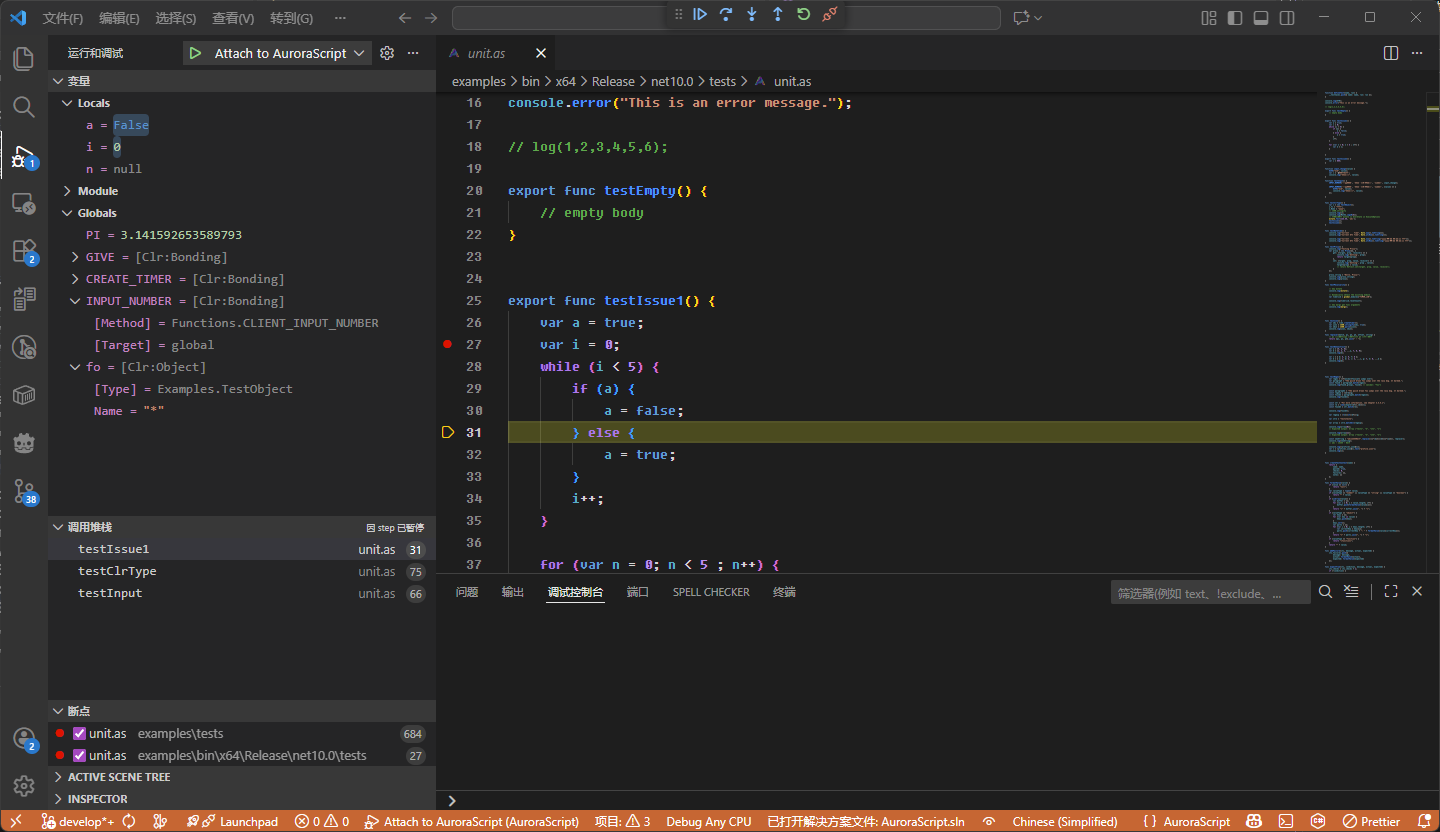
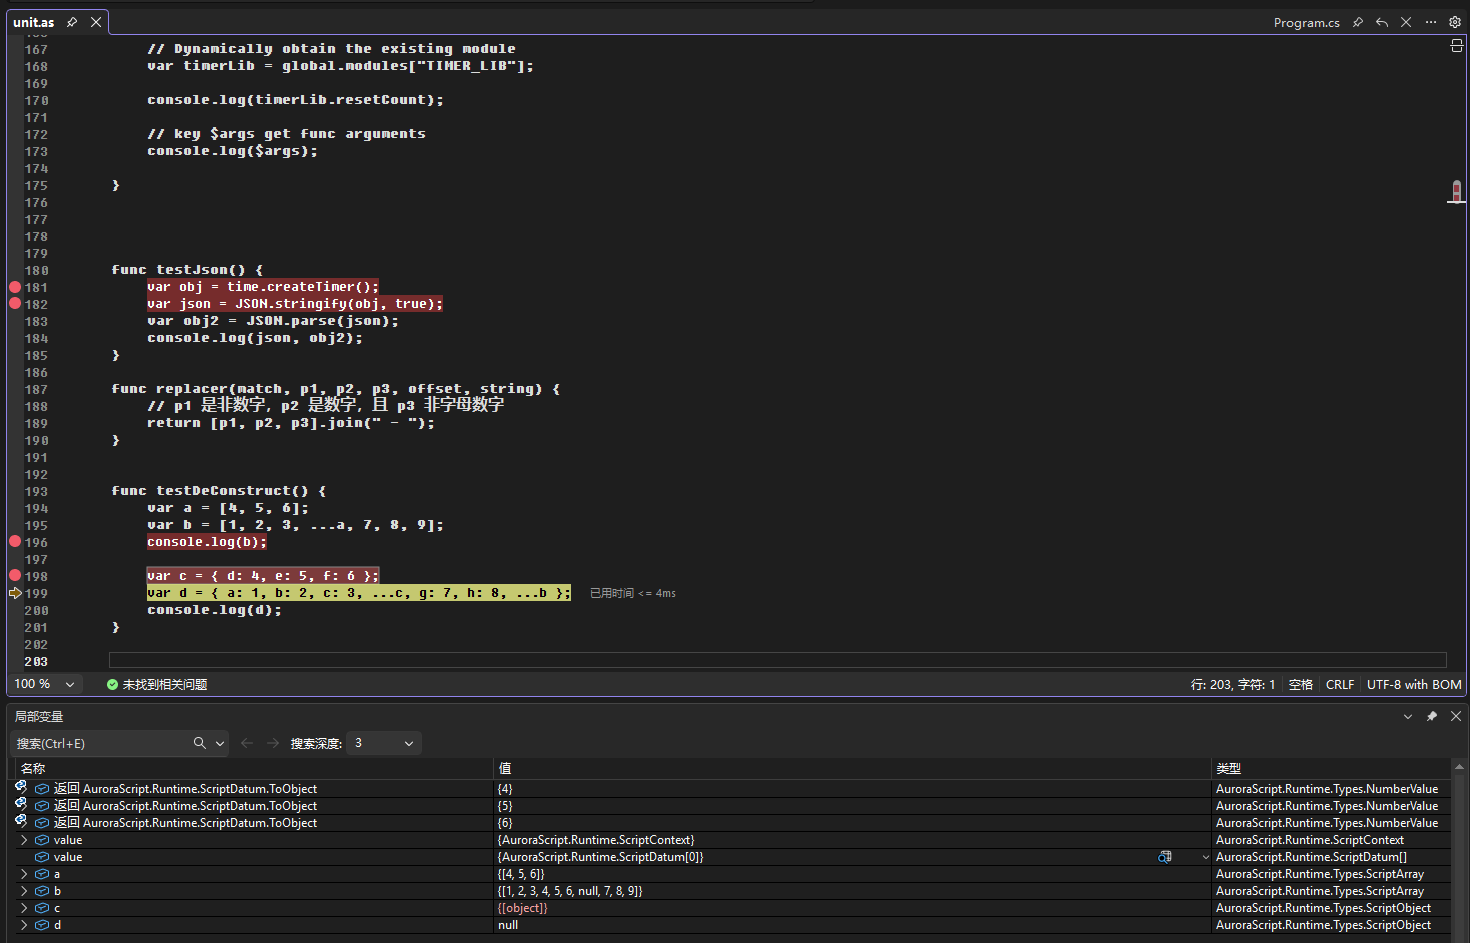
update readme

diff --git a/README.md b/README.md
@@ -12,34 +12,39 @@
 [![Build Status](https://img.shields.io/badge/build-passing-brightgreen.svg)](https://github.com/l2060/AuroraScript)
 [![Version](https://img.shields.io/badge/version-1.0.0-orange.svg)](package.json)
 
-AuroraScript is a lightweight, weak-typed script execution engine built on .NET. It compiles scripts into bytecode and executes them on a custom Virtual Machine (VM), designed to be fast, embeddable, and easy to use.
+AuroraScript is a lightweight, weak-typed script execution engine built on .NET. It compiles scripts directly into CIL (Common Intermediate Language) and executes them using the .NET JIT compiler, designed to be extremely fast, embeddable, and high-performance.
 
-While inspired by JavaScript syntax and mechanisms, AuroraScript is a distinct language with its own optimizations and features, and does not adhere to ECMA specifications. It supports native .NET integration and debugging.
+While inspired by JavaScript syntax and mechanisms, AuroraScript is a distinct language with its own optimizations and features, and does not adhere to ECMA specifications. It leverages native .NET infrastructure for execution, interop, and debugging.
 
 > [!NOTE]
 > 🚧 **Work in Progress**: The project is still in development. Performance and API stability are improving. We welcome **PRs** and **Issues** to help make AuroraScript better!
 
 ## ✨ Features
 
-- **Lightweight & Fast**: No third-party dependencies. Bytecode compilation and optimized VM execution.
+- **High Performance**: No third-party dependencies. Compiles to native CIL/MSIL, leveraging the .NET JIT compiler for execution.
 - **Weak Typed**: Flexible variable typing similar to JavaScript.
 - **Native Interop**: Seamlessly register and use .NET (CLR) types and functions within scripts.
-- **Debugging Support**: Full VS Code debugger support (Breakpoints, stepping, variable inspection, call stack).
+- **Debugging Support**: Full Visual Studio debugger support. (VS Code extension currently provides syntax highlighting only).
 - **Module System**:
   - `import xxx from 'xxx'`: Import module exports.
   - `include 'xxx.as'`: Embed script files directly.
   - `@module("NAME")`: Define module name.
 - **Advanced Control Flow**:
-  - `yield`: Interrupt execution.
   - `Interruption & Continue`: Pause and resume script execution from external host.
   - `debugger`: Programmatic breakpoint.
   - `where` / `for` loop enhancements.
+- **Compilation Modes**:
+  - `Persistence`: Compiles to persistent assemblies (DLL) with PDB symbols. Supports source-level debugging and programmatic breakpoints. Fully inspectable and dumpable.
+  - `OnlyRun`: Transient in-memory compilation. No managed debug mapping. Transparent to external profilers/dumpers; code resides in readable memory segments.
+  - `Dynamic`: Emits CIL via `DynamicMethod`. Metadata-free for peak performance. Black-box execution: non-inspectable and non-dumpable.
+- **HotPatch (Hot-fix)**: Update script logic in a running domain without losing state. Supports `Replace` and `Incremental` modes via .NET or script APIs.
+- **Obfuscation**: Built-in support for obscuring constants, member names, and code structure.
 - **Modern Syntax**:
   - Closures, Lambdas, and Function Pointers.
   - Destructuring assignment: `var { a, b } = obj;` and `var [ a, ...b ] = arr;`.
   - Spread operator: `...` for arrays and objects.
   - Template literals: Multi-line strings with `` ` `` or `|>` syntax.
-- **Standard Library**: Built-in support for `Math`, `JSON`, `Date`, `Regex`, and `StringBuffer`.
+- **Standard Library**: Built-in support for `Math`, `JSON`, `Date`, `Regex`, `HashMap`, `Proxy`, and `StringBuffer`.
 
 ## 🚀 Getting Started
 
@@ -48,7 +53,7 @@ While inspired by JavaScript syntax and mechanisms, AuroraScript is a distinct l
 You can easily install the AuroraScript engine via NuGet:
 
 ```bash
-dotnet add package AuroraScript
+dotnet add package AuroraScript.JIT
 ```
 
 ### Manual Installation
@@ -83,10 +88,10 @@ var options = EngineOptions.Default.WithBaseDirectory("./scripts/");
 var engine = new AuroraEngine(options);
 
 // 2. Register CLR Types/Functions
-engine.RegisterClrType(typeof(Math), "Math2");
+engine.RegisterType<Math>("Math2");
 
-// 3. Compile Scripts
-await engine.BuildAsync();
+// 3. Compile Scripts (Search and build all .as files in base directory)
+await engine.BuildAsync(engine.SearchAllFileSource(Encoding.UTF8));
 
 // 4. Create Domain & Execute
 var domain = engine.CreateDomain();
@@ -119,51 +124,25 @@ func main() {
 
 ## 🐞 Debugging Scripts
 
-AuroraScript provides a full-featured VS Code debugger.
+AuroraScript supports full-featured debugging within **Visual Studio**.
 
-### 1. Setup Extension
-
-1.  **Open Extension Folder**: Open `vscode-extension` in VS Code.
-2.  **Install Dependencies**: `npm install`
-3.  **Package**: `npm run package` -> Generates a `.vsix` file.
-4.  **Install**: Install the `.vsix` file via VS Code Extensions menu.
-
-### 2. Configure Wrapper
-
-Create `.vscode/launch.json` in your script project:
-
-```json
-{
-    "version": "0.2.0",
-    "configurations": [
-        {
-            "type": "AuroraScript",
-            "request": "attach",
-            "name": "Attach to AuroraScript",
-            "host": "localhost",
-            "port": 26010
-        }
-    ]
-}
-```
-
-### 3. Start Debugging
-
-1.  Enable debugger in your C# host:
-    ```csharp
-    engine.EnableDebugger();
-    await engine.WaitAnyDebugger(TimeSpan.FromSeconds(60));
-    ```
-2.  Run host.
-3.  Press `F5` in VS Code.
-
-### Features
+### 1. Visual Studio Debugging
+When using `Persistence` or `OnlyRun` mode, you can debug your scripts:
 - **Breakpoints**: Set breakpoints in `.as` files.
 - **Stepping**: Step Over, Step Into, Step Out.
-- **Variables**: Inspect properties of Objects, Arrays, and Closures.
-- **Call Stack**: View call frames handling script execution.
-- **`debugger` Statement**: Use the `debugger;` keyword in your code to trigger a programmatic breakpoint.
+- **Variables**: Inspect local variables, objects, and arrays.
+- **Call Stack**: View the mixed call stack of script and C#.
 
+### 2. VS Code Extension
+The current VS Code extension provides **Syntax Highlighting** and code colorizing to improve development experience.
+- To install: Open `vscode-extension`, run `npm install`, `npm run package`, and install the generated `.vsix`.
+
+### 3. Start Debugging
+1.  Enable debugger in your C# host (if applicable).
+2.  Set breakpoints in your `.as` files within Visual Studio.
+3.  Run your host application.
+
+*Visual Studio Debugging Example:*
 ![Debugger Demo](documents/debugger.png)
 
 *Built-in type definitions for easier development:*
@@ -193,12 +172,51 @@ The AuroraScript runtime provides a comprehensive standard library.
 | **JSON** | JSON Serialization | `parse(string)`, `stringify(object)` |
 | **Date** | Date Time | `now()`, `parse(string)`, constructors `new Date()` |
 | **Regex** | Regular Expressions | constructors `new Regex(pattern)`, `match(str)`, `replace(str, repl)` |
+| **HashMap** | Key-Value collection | `set(key, val)`, `get(key)`, `has(key)`, `delete(key)`, `clear()` |
+| **Proxy** | Object Proxying | constructors `new Proxy(target, handler)`, intercept get/set/etc. |
 | **StringBuffer** | String Builder | `append(str)`, `toString()`, high-perf string concatenation |
 
 ### Global Context
 - `global`: References the root global scope.
 - `$state`: Access user-injected state object (from C# `ExecuteOptions.WithUserState`).
 - `$args`: Array of arguments passed to the current function.
+
+## 🔥 HotPatch (Hot-fix)
+
+AuroraScript provides powerful hot-fix capabilities, allowing you to update script logic in a running `ScriptDomain` without restarting the application or losing runtime state.
+
+### 1. .NET API (Host Side)
+Use `domain.DynamicPatch` to apply patches from the host:
+
+```csharp
+// Apply a replacement patch
+domain.DynamicPatch(engine.MemorySource("module.as", "func newFunc() { ... }"), HotPatchType.Replace);
+
+// Apply an incremental patch
+domain.DynamicPatch(engine.MemorySource("module.as", "var newVar = 1;"), HotPatchType.Incremental);
+```
+
+### 2. Script API (Script Side)
+The global `HotPatch` object allows scripts to patch themselves or other modules:
+
+```javascript
+// Replace all members of 'MAIN' module
+HotPatch.replace("MAIN", "|> func main() { console.log('Fixed!'); }");
+
+// Incrementally add/update members in 'UTILS' module
+HotPatch.incremental("UTILS", "|> func helper() { return 42; }");
+```
+
+### 3. Working Mechanism
+Hot-patching works via the `IncrementalCompiler`, which performs a partial JIT compilation. It links the new code to the existing `ScriptGlobal` environment and updates the `ScriptObject` representing the target module.
+
+### 4. Precautions & Best Practices
+- **Top-level Re-execution**: When a module is patched, its top-level code (variable initializations, etc.) will re-execute.
+- **Function Signatures**: Ensure new function signatures match existing call sites to maintain compatibility.
+- **Replace vs. Incremental**: 
+    - `Replace`: Destructive. Clears all existing properties of the module before applying new code.
+    - `Incremental`: Safe. Keeps existing properties and only updates or adds new members.
+- **State Persistence**: Variables defined at the module level will be re-initialized if they are part of the patch code.
 
 ## 📊 Benchmark Results
 
